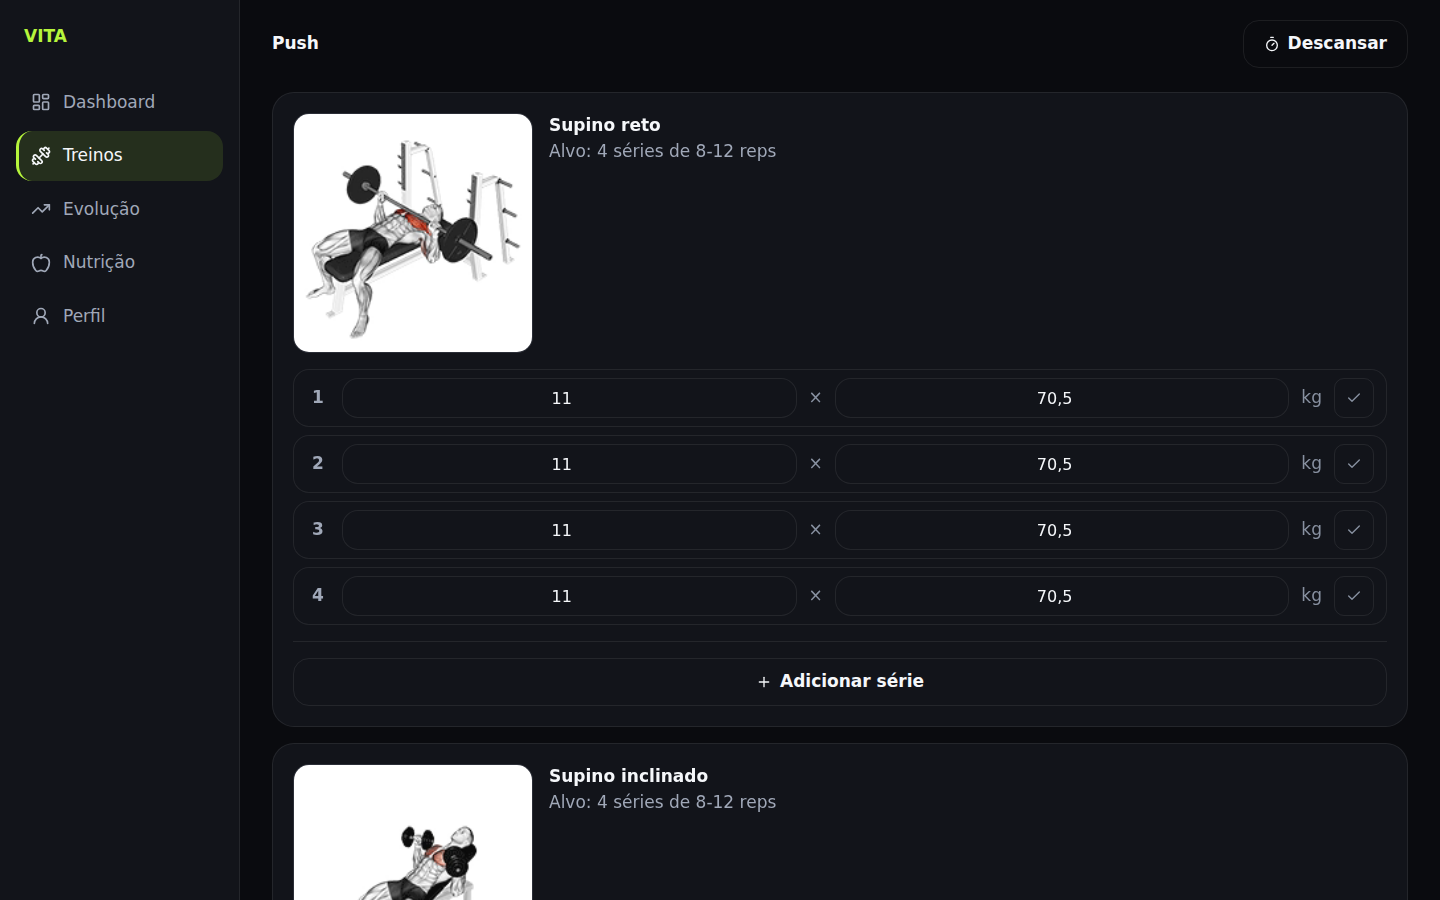
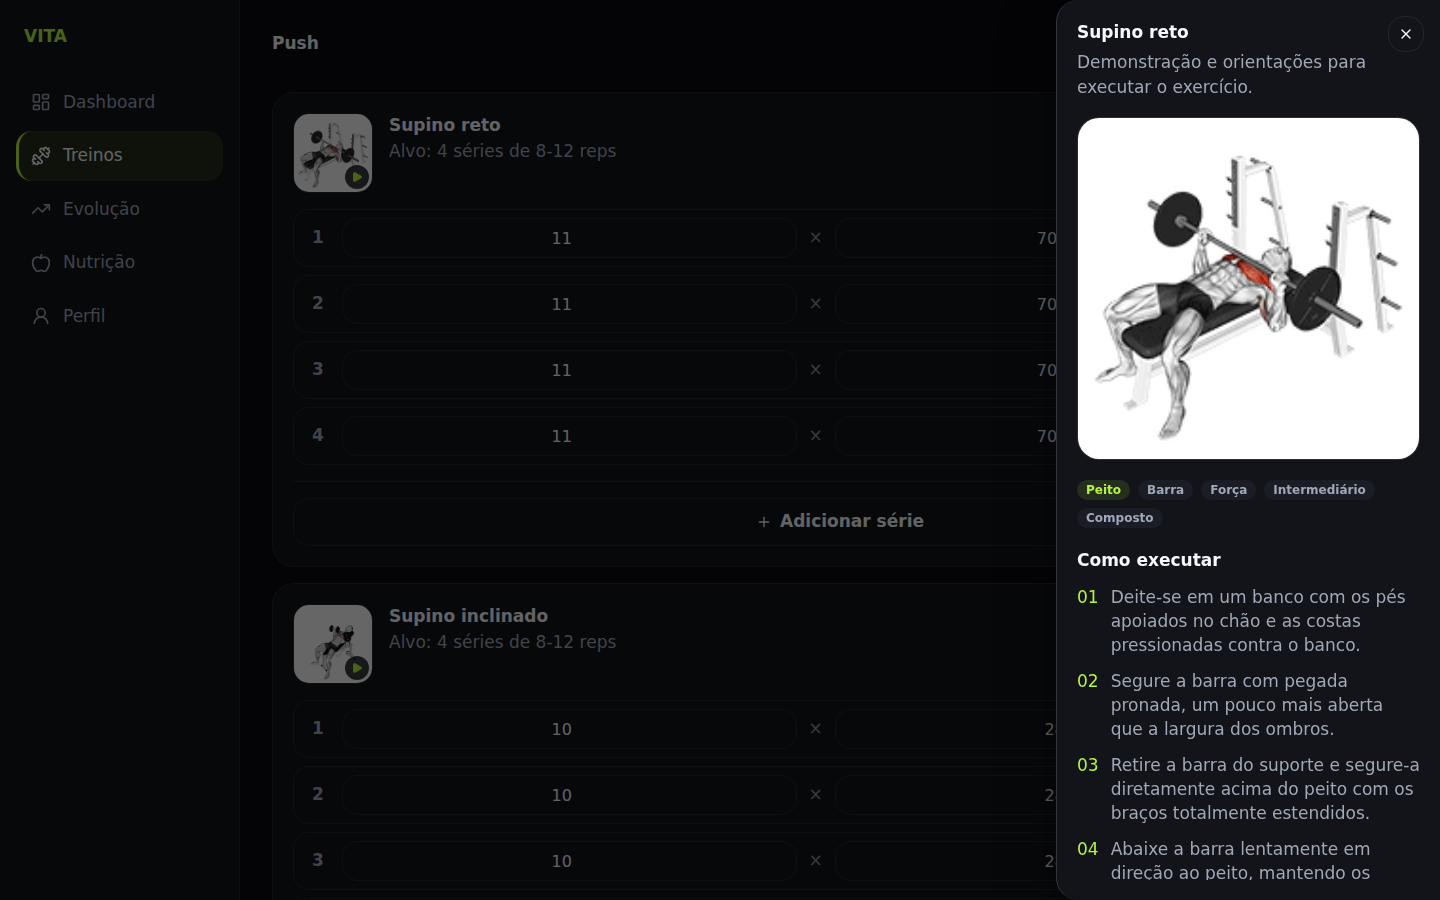
fix: isola seed e melhora mídia de exercícios

diff --git a/src/app/treinos/[id]/ExercicioSessaoCard.tsx b/src/app/treinos/[id]/ExercicioSessaoCard.tsx
@@ -1,10 +1,12 @@
 "use client";
 
+import { useState } from "react";
 import { Plus } from "lucide-react";
 import { Card, CardHeader, CardTitle, CardDescription, CardContent, CardFooter } from "@/components/ui/card";
 import { Button } from "@/components/ui/button";
 import { SetRow } from "@/components/workout/SetRow";
-import { ExercicioThumbnail } from "@/components/exercicios/ExercicioMidia";
+import { ExercicioDetalheSheet, ExercicioThumbnail } from "@/components/exercicios/ExercicioMidia";
+import type { Exercicio } from "@/lib/db/types";
 
 export interface SetState {
   numero: number;
@@ -15,9 +17,7 @@ export interface SetState {
 }
 
 interface ExercicioSessaoCardProps {
-  nome: string;
-  midiaStill: string | null;
-  midiaClip: string | null;
+  exercicio: Exercicio;
   repsAlvo: string;
   sets: SetState[];
   onRepsChange: (setIndex: number, reps: number) => void;
@@ -27,9 +27,7 @@ interface ExercicioSessaoCardProps {
 }
 
 export function ExercicioSessaoCard({
-  nome,
-  midiaStill,
-  midiaClip,
+  exercicio,
   repsAlvo,
   sets,
   onRepsChange,
@@ -37,26 +35,17 @@ export function ExercicioSessaoCard({
   onConcluirToggle,
   onAdicionarSerie,
 }: ExercicioSessaoCardProps) {
+  const [detalheAberto, setDetalheAberto] = useState(false);
   return (
     <Card>
       <CardHeader className="flex-row items-start gap-[var(--s-4)]">
-        {midiaClip ? (
-          <video
-            src={midiaClip}
-            poster={midiaStill ?? undefined}
-            aria-label={`Demonstração em vídeo de ${nome}`}
-            muted
-            loop
-            autoPlay
-            playsInline
-            preload="metadata"
-            className="size-24 shrink-0 rounded-[var(--r-md)] border border-border bg-bg-2 object-cover sm:size-60"
-          />
-        ) : (
-          <ExercicioThumbnail exercicio={{ nome, midia_still: midiaStill, midia_clip: null }} tamanho="sessao" />
-        )}
+        <ExercicioThumbnail
+          exercicio={exercicio}
+          tamanho="sessao"
+          onAbrir={() => setDetalheAberto(true)}
+        />
         <div className="min-w-0">
-          <CardTitle>{nome}</CardTitle>
+          <CardTitle>{exercicio.nome}</CardTitle>
           <CardDescription>Alvo: {sets.length} séries de {repsAlvo} reps</CardDescription>
         </div>
       </CardHeader>
@@ -81,6 +70,11 @@ export function ExercicioSessaoCard({
           Adicionar série
         </Button>
       </CardFooter>
+      <ExercicioDetalheSheet
+        exercicio={exercicio}
+        open={detalheAberto}
+        onOpenChange={setDetalheAberto}
+      />
     </Card>
   );
 }

diff --git a/src/app/treinos/[id]/SessaoGuiadaClient.tsx b/src/app/treinos/[id]/SessaoGuiadaClient.tsx
@@ -8,13 +8,13 @@ import { Card } from "@/components/ui/card";
 import { RestTimer } from "@/components/workout/RestTimer";
 import { ExercicioSessaoCard, type SetState } from "./ExercicioSessaoCard";
 import { finalizarTreinoAction, registrarSerieAction } from "./actions";
+import type { Exercicio } from "@/lib/db/types";
 
 export interface ExercicioSessaoData {
   treinoExercicioId: number;
   exercicioId: number;
+  exercicio: Exercicio;
   nome: string;
-  midiaStill: string | null;
-  midiaClip: string | null;
   seriesAlvo: number;
   repsAlvo: string;
   ultimaReps: number;
@@ -143,9 +143,7 @@ export function SessaoGuiadaClient({ sessaoId, treinoId, treinoNome, exercicios 
         {estado.map((ex, exIndex) => (
           <ExercicioSessaoCard
             key={ex.treinoExercicioId}
-            nome={ex.nome}
-            midiaStill={ex.midiaStill}
-            midiaClip={ex.midiaClip}
+            exercicio={ex.exercicio}
             repsAlvo={ex.repsAlvo}
             sets={ex.sets}
             onRepsChange={(setIndex, reps) => atualizarSet(exIndex, setIndex, { reps })}

diff --git a/e2e/exercicio-midia-flow.spec.ts b/e2e/exercicio-midia-flow.spec.ts
@@ -19,6 +19,7 @@ test("abre a demonstração local da biblioteca e mostra o fallback sem mídia",
 
 test("exibe clipes locais na sessão guiada", async ({ page }) => {
   await page.goto("/treinos/1");
+  await page.getByRole("button", { name: "Ver demonstração de Supino reto" }).click();
 
   const clip = page.getByLabel("Demonstração em vídeo de Supino reto");
   await expect(clip).toBeVisible();
@@ -34,4 +35,12 @@ test("mostra thumbnails no editor de composição do treino", async ({ page }) =
   const thumbnail = page.getByAltText("Demonstração de Supino reto");
   await expect(thumbnail).toBeVisible();
   await expect(thumbnail).toHaveAttribute("loading", "lazy");
+});
+
+test("abre a demonstração pela thumbnail da sessão guiada", async ({ page }) => {
+  await page.goto("/treinos/1");
+
+  await page.getByRole("button", { name: "Ver demonstração de Supino reto" }).click();
+  await expect(page.getByRole("heading", { name: "Supino reto" })).toBeVisible();
+  await expect(page.getByRole("heading", { name: "Como executar" })).toBeVisible();
 });

diff --git a/src/lib/db/client.ts b/src/lib/db/client.ts
@@ -6,16 +6,20 @@ import fs from "node:fs";
 import path from "node:path";
 
 const DATA_DIR = path.join(process.cwd(), "data");
-const DB_PATH = path.join(DATA_DIR, "vita.db");
+const PRODUCTION_DB_PATH = path.join(DATA_DIR, "vita.db");
 const SCHEMA_PATH = path.join(process.cwd(), "src", "lib", "db", "schema.sql");
 
 let instance: Database.Database | null = null;
+
+export function resolveDatabasePath(configuredPath = process.env.VITA_DB_PATH): string {
+  return configuredPath ? path.join(DATA_DIR, path.basename(configuredPath)) : PRODUCTION_DB_PATH;
+}
 
 function createConnection(): Database.Database {
   if (!fs.existsSync(DATA_DIR)) {
     fs.mkdirSync(DATA_DIR, { recursive: true });
   }
-  const db = new Database(DB_PATH);
+  const db = new Database(resolveDatabasePath());
   db.pragma("journal_mode = WAL");
   db.pragma("foreign_keys = ON");
   const schema = fs.readFileSync(SCHEMA_PATH, "utf-8");
@@ -31,4 +35,4 @@ export function getDb(): Database.Database {
   return instance;
 }
 
-export { DB_PATH };
+export { PRODUCTION_DB_PATH };

diff --git a/src/lib/db/seedTarget.test.ts b/src/lib/db/seedTarget.test.ts
@@ -1,0 +1,16 @@
+import { describe, expect, it } from "vitest";
+import { getSeedDatabasePath } from "@/lib/db/seedTarget";
+
+describe("seed database target", () => {
+  it("defaults to the isolated development database", () => {
+    expect(getSeedDatabasePath()).toMatch(/data\/vita\.dev\.db$/);
+  });
+
+  it("rejects the production database path", () => {
+    expect(() => getSeedDatabasePath("data/vita.db")).toThrow(/production database/i);
+  });
+
+  it("allows an explicit isolated end-to-end database", () => {
+    expect(getSeedDatabasePath("data/vita.e2e.db")).toMatch(/data\/vita\.e2e\.db$/);
+  });
+});

diff --git a/playwright.config.ts b/playwright.config.ts
@@ -6,14 +6,14 @@ export default defineConfig({
   retries: 0,
   reporter: "list",
   use: {
-    baseURL: "http://localhost:3900",
+    baseURL: "http://localhost:3901",
     trace: "retain-on-failure",
   },
   projects: [{ name: "chromium", use: { ...devices["Desktop Chrome"] } }],
   webServer: {
-    command: "npm run dev",
-    url: "http://localhost:3900",
-    reuseExistingServer: true,
-    timeout: 30_000,
+    command: "npm run seed:e2e && npm run dev:e2e",
+    url: "http://localhost:3901",
+    reuseExistingServer: false,
+    env: { ...process.env, VITA_DB_PATH: "data/vita.e2e.db" },
   },
 });

diff --git a/src/lib/db/seedTarget.ts b/src/lib/db/seedTarget.ts
@@ -1,0 +1,13 @@
+import path from "node:path";
+import { PRODUCTION_DB_PATH, resolveDatabasePath } from "@/lib/db/client";
+
+const DEVELOPMENT_DB_PATH = path.join("data", "vita.dev.db");
+
+/** Resolves an isolated database path and refuses the production database. */
+export function getSeedDatabasePath(configuredPath?: string): string {
+  const databasePath = resolveDatabasePath(configuredPath ?? DEVELOPMENT_DB_PATH);
+  if (databasePath === PRODUCTION_DB_PATH) {
+    throw new Error("Seed must not target the production database.");
+  }
+  return databasePath;
+}

diff --git a/src/lib/db/seed.ts b/src/lib/db/seed.ts
@@ -5,6 +5,9 @@
 import { getDb } from "@/lib/db/client";
 import { ALIMENTOS_SEED, EXERCICIOS_SEED } from "@/lib/db/seedData";
 import { isoLocalDiasAtras } from "@/lib/domain/dataLocal";
+import { getSeedDatabasePath } from "@/lib/db/seedTarget";
+
+process.env.VITA_DB_PATH = getSeedDatabasePath(process.env.VITA_DB_PATH);
 
 const TABELAS_EM_ORDEM_DE_LIMPEZA = [
   "refeicao_item", "refeicao", "medida", "peso_registro", "sessao_serie",

diff --git a/src/app/treinos/[id]/page.tsx b/src/app/treinos/[id]/page.tsx
@@ -43,9 +43,8 @@ export default async function SessaoTreinoPage({ params }: { params: Promise<{ i
     return {
       treinoExercicioId: te.id,
       exercicioId: te.exercicio_id,
+      exercicio: te.exercicio,
       nome: te.exercicio.nome,
-      midiaStill: te.exercicio.midia_still,
-      midiaClip: te.exercicio.midia_clip,
       seriesAlvo: te.series_alvo,
       repsAlvo: te.reps_alvo,
       ultimaReps: ultima?.reps ?? 0,

diff --git a/README.md b/README.md
@@ -32,7 +32,7 @@ ambiente (ver `RELATORIO-SKILLS.md`, seção de auditoria).
 | `npm run dev` | servidor de desenvolvimento, porta 3900 |
 | `npm run build` | build de produção |
 | `npm run start` | serve o build, porta 3900 |
-| `npm run seed` | recria o banco e reaplica o catálogo local de mídia de exercícios |
+| `npm run seed` | recria `data/vita.dev.db` e reaplica o catálogo local de mídia |
 | `npm run test` | testes unitários (Vitest) — regras de negócio em `src/lib/domain/` |
 | `npm run test:e2e` | testes end-to-end (Playwright) |
 | `node scripts/aplicar-midia.mjs` | migration aditiva e idempotente do catálogo de mídia |
@@ -50,10 +50,10 @@ Ver `plan.md` para a árvore completa e as decisões de arquitetura. Resumo:
 
 ## Dados
 
-Banco em `data/vita.db` (SQLite, fora do git — `.gitignore`). `npm run seed`
-recria do zero: 1 usuário, 33 exercícios, 3 treinos (Push/Pull/Legs), 12
-semanas de sessões com progressão de carga plausível, histórico de peso e
-medidas, 20 alimentos, uma semana de refeições e o catálogo de mídia local.
+O banco em produção é `data/vita.db` (SQLite, fora do git — `.gitignore`).
+Por segurança, `npm run seed` sempre recria a base isolada
+`data/vita.dev.db`; ele recusa explicitamente `data/vita.db`. Os dados da
+aplicação em produção não são reescritos por testes ou seeds.
 
 ### Mídia de exercícios
 
@@ -61,6 +61,10 @@ medidas, 20 alimentos, uma semana de refeições e o catálogo de mídia local.
 catálogo [openGym](https://github.com/DuarteSantos8/openGym). O seed baixa uma
 vez e serve localmente 32 thumbnails WebP e 32 clipes MP4; a Cadeira abdutora
 permanece propositalmente sem arquivo para exercitar o fallback desenhado.
+Cada thumbnail da biblioteca e do editor abre o sheet com vídeo em loop, metadados
+e instruções; na sessão guiada, a miniatura abre esse mesmo sheet sem tirar o
+foco do registro de séries.
+
 O app não busca mídia em runtime. Os arquivos vêm da fonte com seus próprios
 termos de licença; mantenha este uso pessoal e privado, sem redistribuí-los.
 

diff --git a/progresso.md b/progresso.md
@@ -19,7 +19,7 @@ limitação de plataforma/tempo, cada um na sua categoria.
 - CRUD completo de exercícios e treinos (criar, compor exercícios do treino, editar,
   excluir com tratamento de erro de FK). Catálogo de exercícios com thumbnail
   clicável, sheet de demonstração com vídeo local e fallback explícito para
-  exercício sem mídia; a mesma thumbnail aparece no editor e na sessão guiada.
+  exercício sem mídia; biblioteca, editor e sessão guiada abrem o mesmo sheet.
 - Sessão guiada funcional: carga/reps pré-preenchidos do último registro, cronômetro de
   descanso real (±15s, pausa/retomar, correção por `Date.now()` ao voltar o foco — limitação
   de som em segundo plano documentada na própria UI), detecção de PR automática.
@@ -51,10 +51,10 @@ limitação de plataforma/tempo, cada um na sua categoria.
   (confirmado programaticamente), foco visível confirmado via navegação por Tab real.
 - Dados coerentes: 3 verificações independentes com consulta SQL direta batendo exatamente
   com o número exibido na tela (kcal/proteína/carbo/gordura do dia, treinos da semana).
-- Testes: Vitest 26/26 (7 arquivos — regras de domínio e migration de mídia);
-  Playwright E2E 6/6 fluxos reais (criar exercício→sessão→histórico;
-  peso→gráfico; refeição→macros; biblioteca/editor/sessão com mídia) — todos
-  passaram após reseed. A execução restaura o banco de demonstração ao final.
+- Testes: Vitest 29/29 (8 arquivos — regras de domínio, isolamento do seed e
+  migration de mídia); Playwright E2E 7/7 fluxos reais (criar exercício→sessão→
+  histórico; peso→gráfico; refeição→macros; biblioteca/editor/sessão com mídia)
+  — todos passaram após reseed. A execução restaura o banco de demonstração ao final.
 - Build de produção: `npm run build` passa, TypeScript limpo. **Bug real encontrado e
   corrigido**: 6 das 8 rotas saíam `○ Static` (prerendeadas uma vez no build, congelando os
   dados) — adicionado `export const dynamic = "force-dynamic"` em todas.

diff --git a/RELATORIO-SKILLS.md b/RELATORIO-SKILLS.md
@@ -185,7 +185,7 @@ são `devDependency`/`dependency` locais do projeto ou `npx` efêmero).
 |---|---|---|
 | Catálogo curado | 33 exercícios mapeados; 32 com mídia e 1 fallback intencional | `npm run seed` → `{"exerciciosMapeados":33,"comMidia":32}` |
 | Servir sem dependência externa em runtime | 32 WebP + 32 MP4 em `public/midia/`; dados e instruções no SQLite | Playwright abriu vídeo local da biblioteca e da sessão guiada |
-| Seed reprodutível | `npm run seed` também roda a migration idempotente de mídia | regressão descoberta: reseed apagava mídia; corrigida e testada no E2E |
-| Cobertura de interface | biblioteca, editor de treino, sessão guiada e fallback | `npx playwright test e2e/exercicio-midia-flow.spec.ts` → **3 passed** em produção |
-| Regressão completa | domínio, migrations e seis fluxos de usuário | `npm test` → **26 passed**; `npm run test:e2e` → **6 passed** |
+| Seed isolado e reprodutível | `npm run seed` recria `data/vita.dev.db`; `seed:e2e` usa `data/vita.e2e.db`; ambos recusam `data/vita.db` | `seedTarget.test.ts` e checksum da produção inalterado após as suítes |
+| Cobertura de interface | biblioteca, editor de treino, sessão guiada e fallback | fallback e sheet interativo capturados em produção, console `[]`; E2E → **7 passed** |
+| Regressão completa | domínio, migrations e sete fluxos de usuário | `npm test` → **29 passed**; `npm run test:e2e` → **7 passed** |
 | Produção | build, `next start` e todas as oito rotas | `npm run build` aprovado; oito respostas HTTP 200 na porta 3900 |
